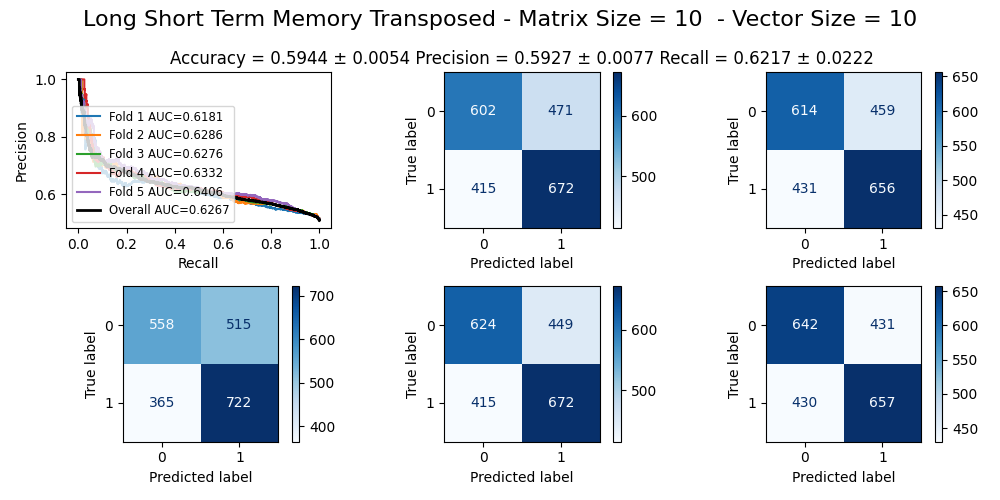
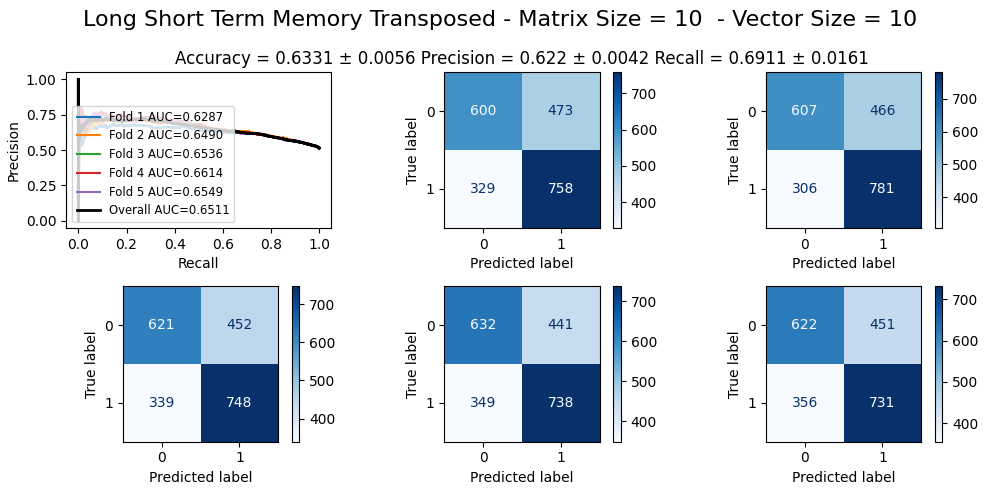
02-12-2021

diff --git a/NaturalLanguageProcessing/Classifiers.py b/NaturalLanguageProcessing/Classifiers.py
@@ -13,7 +13,7 @@ class Classifiers:
     def __init__(self, listVectors, listLabels, foldsNumber = 5):
         self.foldsNumber = foldsNumber
         self.xTrain, self.xTest, self.yTrain, self.yTest = train_test_split(np.array(listVectors), np.array(listLabels), test_size=0.3, random_state=42)
-        self.metrics = {"accuracy":[], "precision":[], "recall":[], "AUC":[]}
+        self.metrics = {"accuracy":[0, 0], "precision":[0, 0], "recall":[0, 0], "AUC":[0, 0]}
 
     def supportVectorMachine(self, vectorSize):
         svm = SVC(C=1, probability=True ,random_state=42)
@@ -95,14 +95,14 @@ class Classifiers:
         axes[0, 0].legend(loc='lower left', fontsize='small')
         f.tight_layout()
         f.savefig("results/" + classifierName + " - Vector Size = " + str(vectorSize) + ".png")
-        self.metrics["accuracy"].append(str(round(np.mean(accuracyList),4)))
-        self.metrics["accuracy"].append(str(round(np.std(accuracyList),4)))
-        self.metrics["precision"].append(str(round(np.mean(precisionList),4)))
-        self.metrics["precision"].append(str(round(np.std(precisionList),4)))
-        self.metrics["recall"].append(str(round(np.mean(recallList),4)))
-        self.metrics["recall"].append(str(round(np.std(recallList),4)))
-        self.metrics["AUC"].append(str(round(np.mean(AUCList),4)))
-        self.metrics["AUC"].append(str(round(np.std(AUCList),4)))
+        self.metrics["accuracy"][0] = str(round(np.mean(accuracyList),4))
+        self.metrics["accuracy"][1] = str(round(np.std(accuracyList),4))
+        self.metrics["precision"][0] = str(round(np.mean(precisionList),4))
+        self.metrics["precision"][1] = str(round(np.std(precisionList),4))
+        self.metrics["recall"][0] = str(round(np.mean(recallList),4))
+        self.metrics["recall"][1] = str(round(np.std(recallList),4))
+        self.metrics["AUC"][0] = str(round(np.mean(AUCList),4))
+        self.metrics["AUC"][1] = str(round(np.std(AUCList),4))
         return self.metrics
     
     def __crossValidationTensorflow(self, classifier, vectorSize, classifierName, callback):
@@ -152,12 +152,12 @@ class Classifiers:
         axes[0, 0].legend(loc='lower left', fontsize='small')
         f.tight_layout()
         f.savefig("results/" + classifierName + " - Vector Size = " + str(vectorSize) + ".png")
-        self.metrics["accuracy"].append(str(round(np.mean(accuracyList),4)))
-        self.metrics["accuracy"].append(str(round(np.std(accuracyList),4)))
-        self.metrics["precision"].append(str(round(np.mean(precisionList),4)))
-        self.metrics["precision"].append(str(round(np.std(precisionList),4)))
-        self.metrics["recall"].append(str(round(np.mean(recallList),4)))
-        self.metrics["recall"].append(str(round(np.std(recallList),4)))
-        self.metrics["AUC"].append(str(round(np.mean(AUCList),4)))
-        self.metrics["AUC"].append(str(round(np.std(AUCList),4)))
+        self.metrics["accuracy"][0] = str(round(np.mean(accuracyList),4))
+        self.metrics["accuracy"][1] = str(round(np.std(accuracyList),4))
+        self.metrics["precision"][0] = str(round(np.mean(precisionList),4))
+        self.metrics["precision"][1] = str(round(np.std(precisionList),4))
+        self.metrics["recall"][0] = str(round(np.mean(recallList),4))
+        self.metrics["recall"][1] = str(round(np.std(recallList),4))
+        self.metrics["AUC"][0] = str(round(np.mean(AUCList),4))
+        self.metrics["AUC"][1] = str(round(np.std(AUCList),4))
         return self.metrics

diff --git a/NaturalLanguageProcessing/NLPGraphs.py b/NaturalLanguageProcessing/NLPGraphs.py
@@ -97,7 +97,7 @@ for dataset in dataSetCsv:
                                 for classifierSize in classifierSizeCsv:
                                     tic = time.time()
                                     classificador = Classifiers(listVectors, listLabels)
-                                    classificador.longShortTermMemory(vector_size=vectorSize, lstm_size=classifierSize, matrix_size=matrixSize)
+                                    metrics = classificador.longShortTermMemory(vector_size=vectorSize, lstm_size=classifierSize, matrix_size=matrixSize)
                                     results.writerow([dataset, removeStopWords, nlp, vectorSize, classifier, classifierSize, matrixSize, metrics["accuracy"][0], metrics["accuracy"][1], metrics["precision"][0], metrics["precision"][1], metrics["recall"][0], metrics["recall"][1], metrics["AUC"][0], metrics["AUC"][1]])
                                     toc = time.time() - tic
                                     log.write("    " + tempoAgora() + " - Classificação - " + classifier + " - classifier size = " + str(classifierSize) + " - matrix size = " + str(matrixSize) + " - " + str(round(toc,2)) + " segundos\n")
@@ -116,7 +116,7 @@ for dataset in dataSetCsv:
                                 for classifierSize in classifierSizeCsv:
                                     tic = time.time()
                                     classificador = Classifiers(listVectors, listLabels)
-                                    classificador.longShortTermMemory(vector_size=vectorSize, lstm_size=classifierSize, matrix_size=matrixSize, isTransposed=True)
+                                    metrics = classificador.longShortTermMemory(vector_size=vectorSize, lstm_size=classifierSize, matrix_size=matrixSize, isTransposed=True)
                                     results.writerow([dataset, removeStopWords, nlp, vectorSize, classifier, classifierSize, matrixSize, metrics["accuracy"][0], metrics["accuracy"][1], metrics["precision"][0], metrics["precision"][1], metrics["recall"][0], metrics["recall"][1], metrics["AUC"][0], metrics["AUC"][1]])
                                     toc = time.time() - tic
                                     log.write("    " + tempoAgora() + " - Classificação - " + classifier + " - classifier size = " + str(classifierSize) + " - matrix size = " + str(matrixSize) + " - " + str(round(toc,2)) + " segundos\n")
@@ -150,7 +150,7 @@ for dataset in dataSetCsv:
                         for classifierSize in classifierSizeCsv:
                             tic = time.time()
                             classificador = Classifiers(listVectors, listLabels)
-                            classificador.neuralNetwork(input_size=vectorSize, hidden_layer=classifierSize)
+                            metrics = classificador.neuralNetwork(input_size=vectorSize, hidden_layer=classifierSize)
                             results.writerow([dataset, removeStopWords, nlp, vectorSize, classifier, classifierSize, "-", metrics["accuracy"][0], metrics["accuracy"][1], metrics["precision"][0], metrics["precision"][1], metrics["recall"][0], metrics["recall"][1], metrics["AUC"][0], metrics["AUC"][1]])
                             toc = time.time() - tic
                             log.write("    " + tempoAgora() + " - Classificação - " + classifier + " - classifier size = " + str(classifierSize) + " - " + str(round(toc,2)) + " segundos\n")
